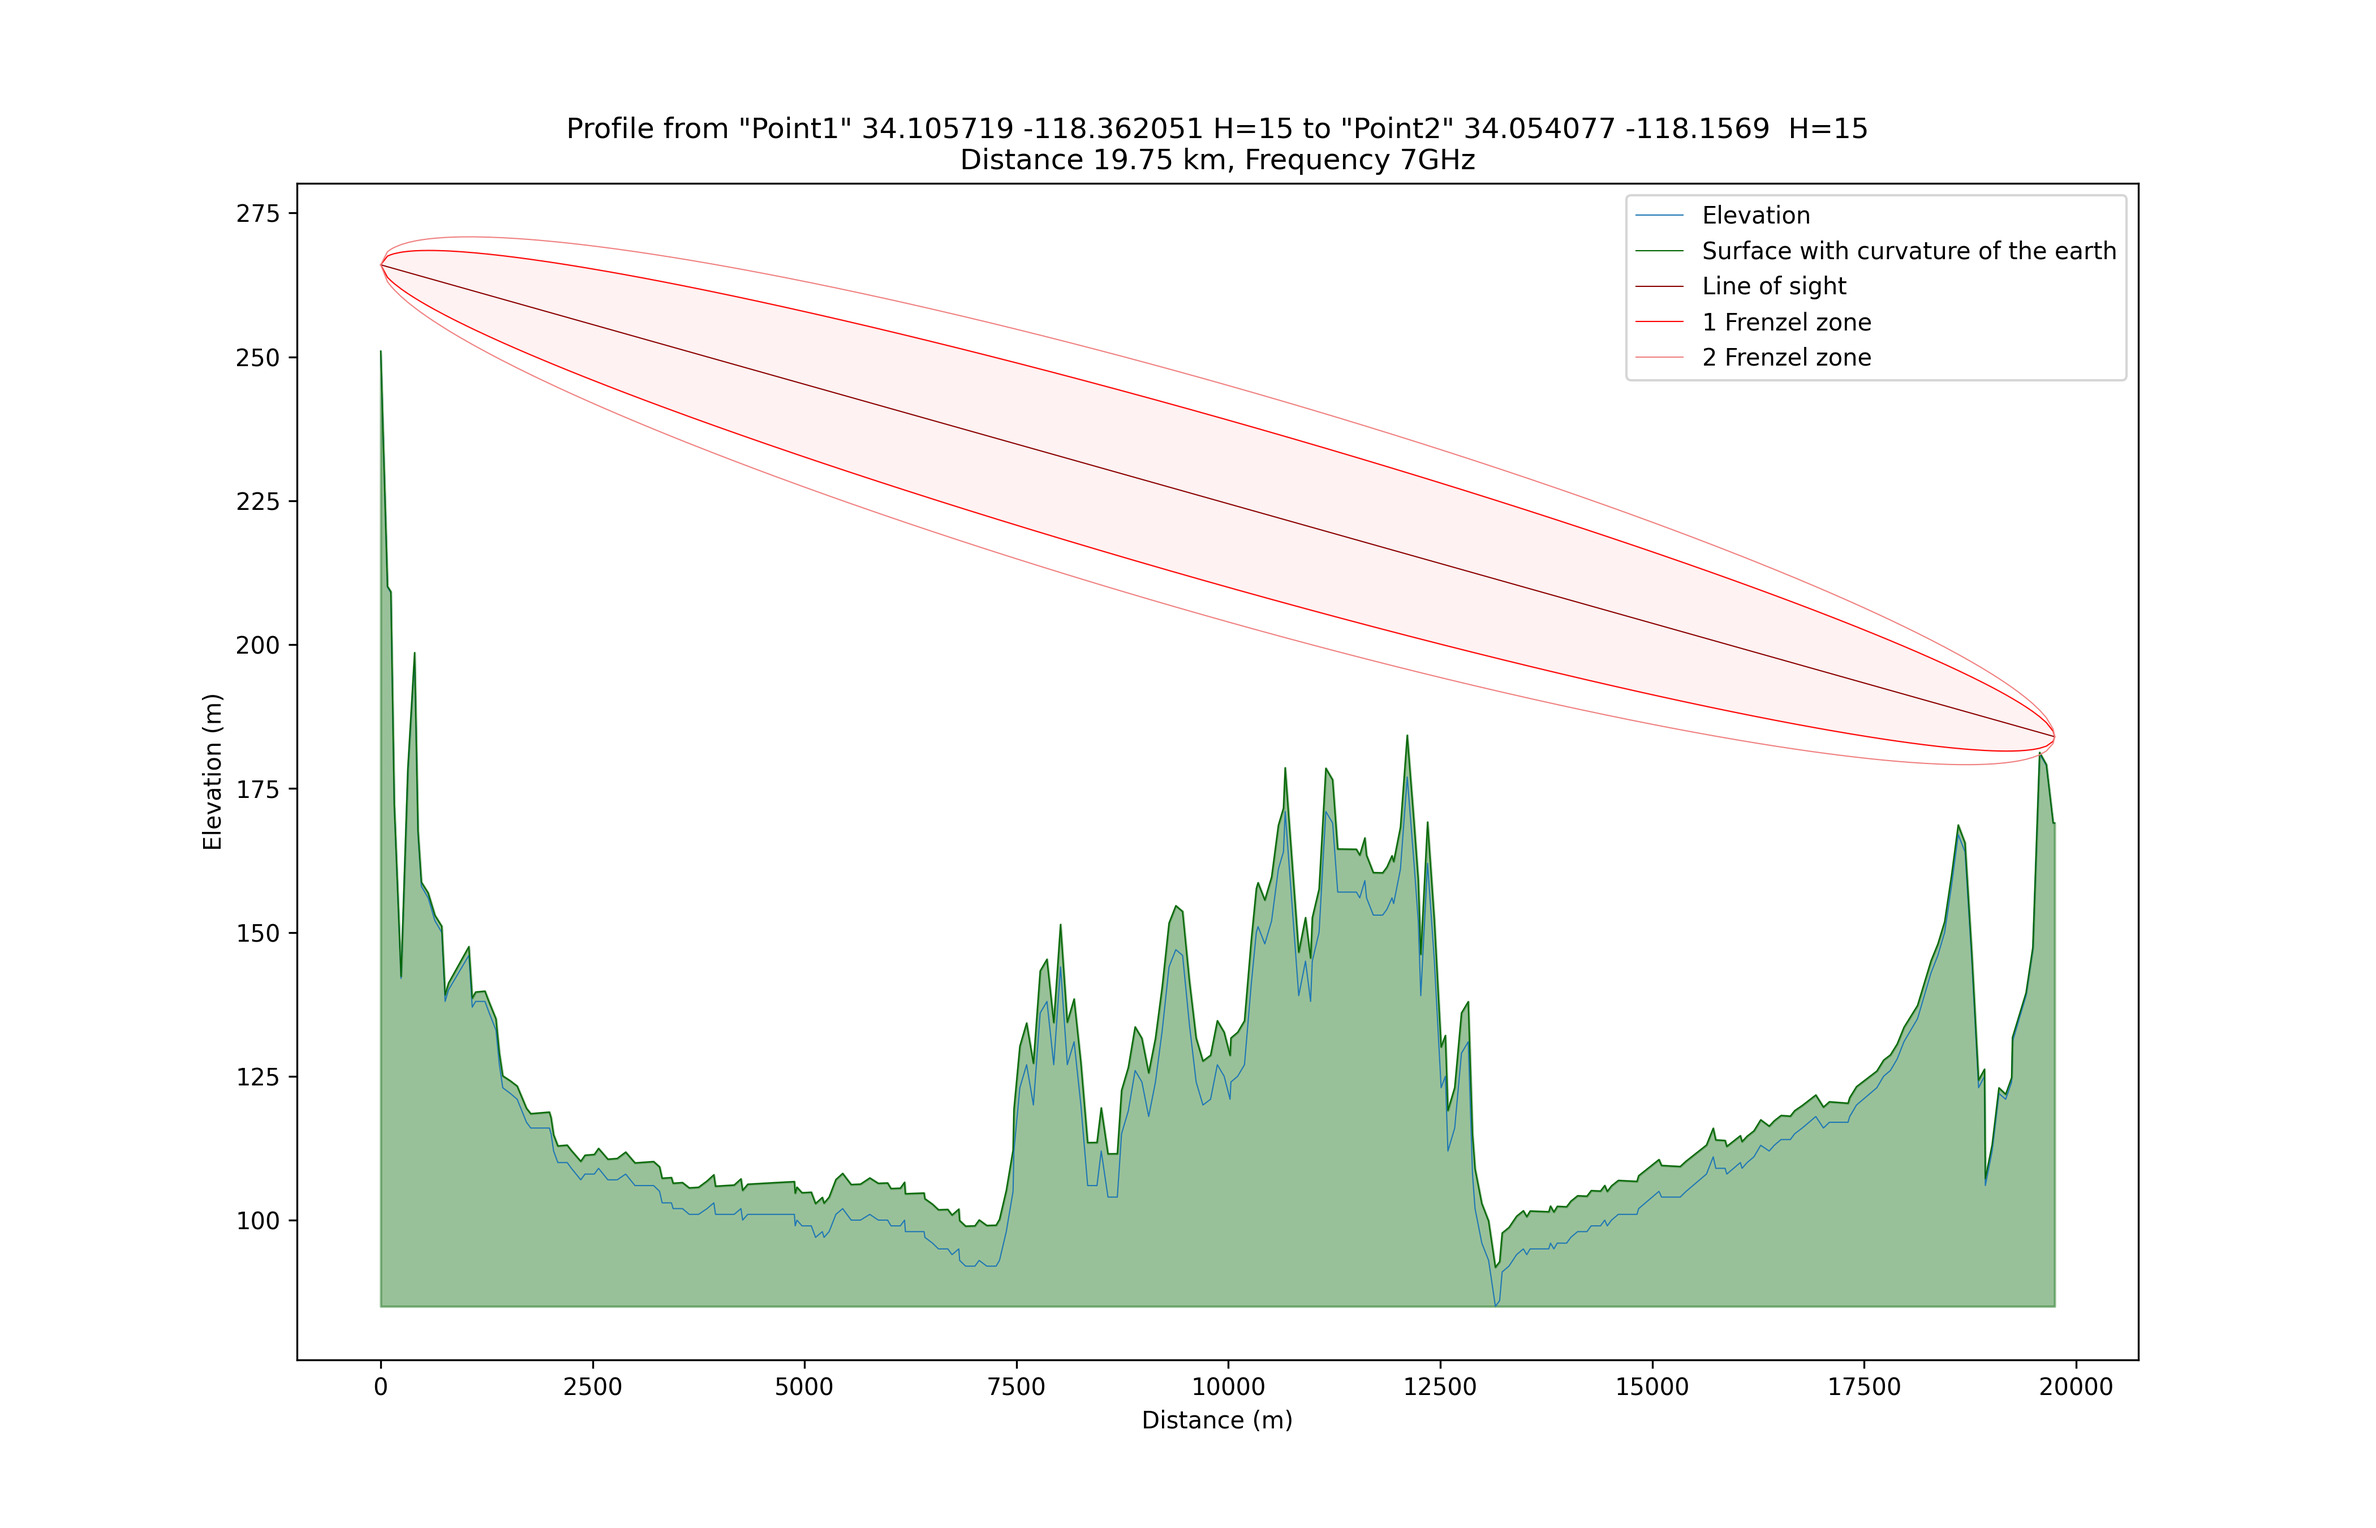
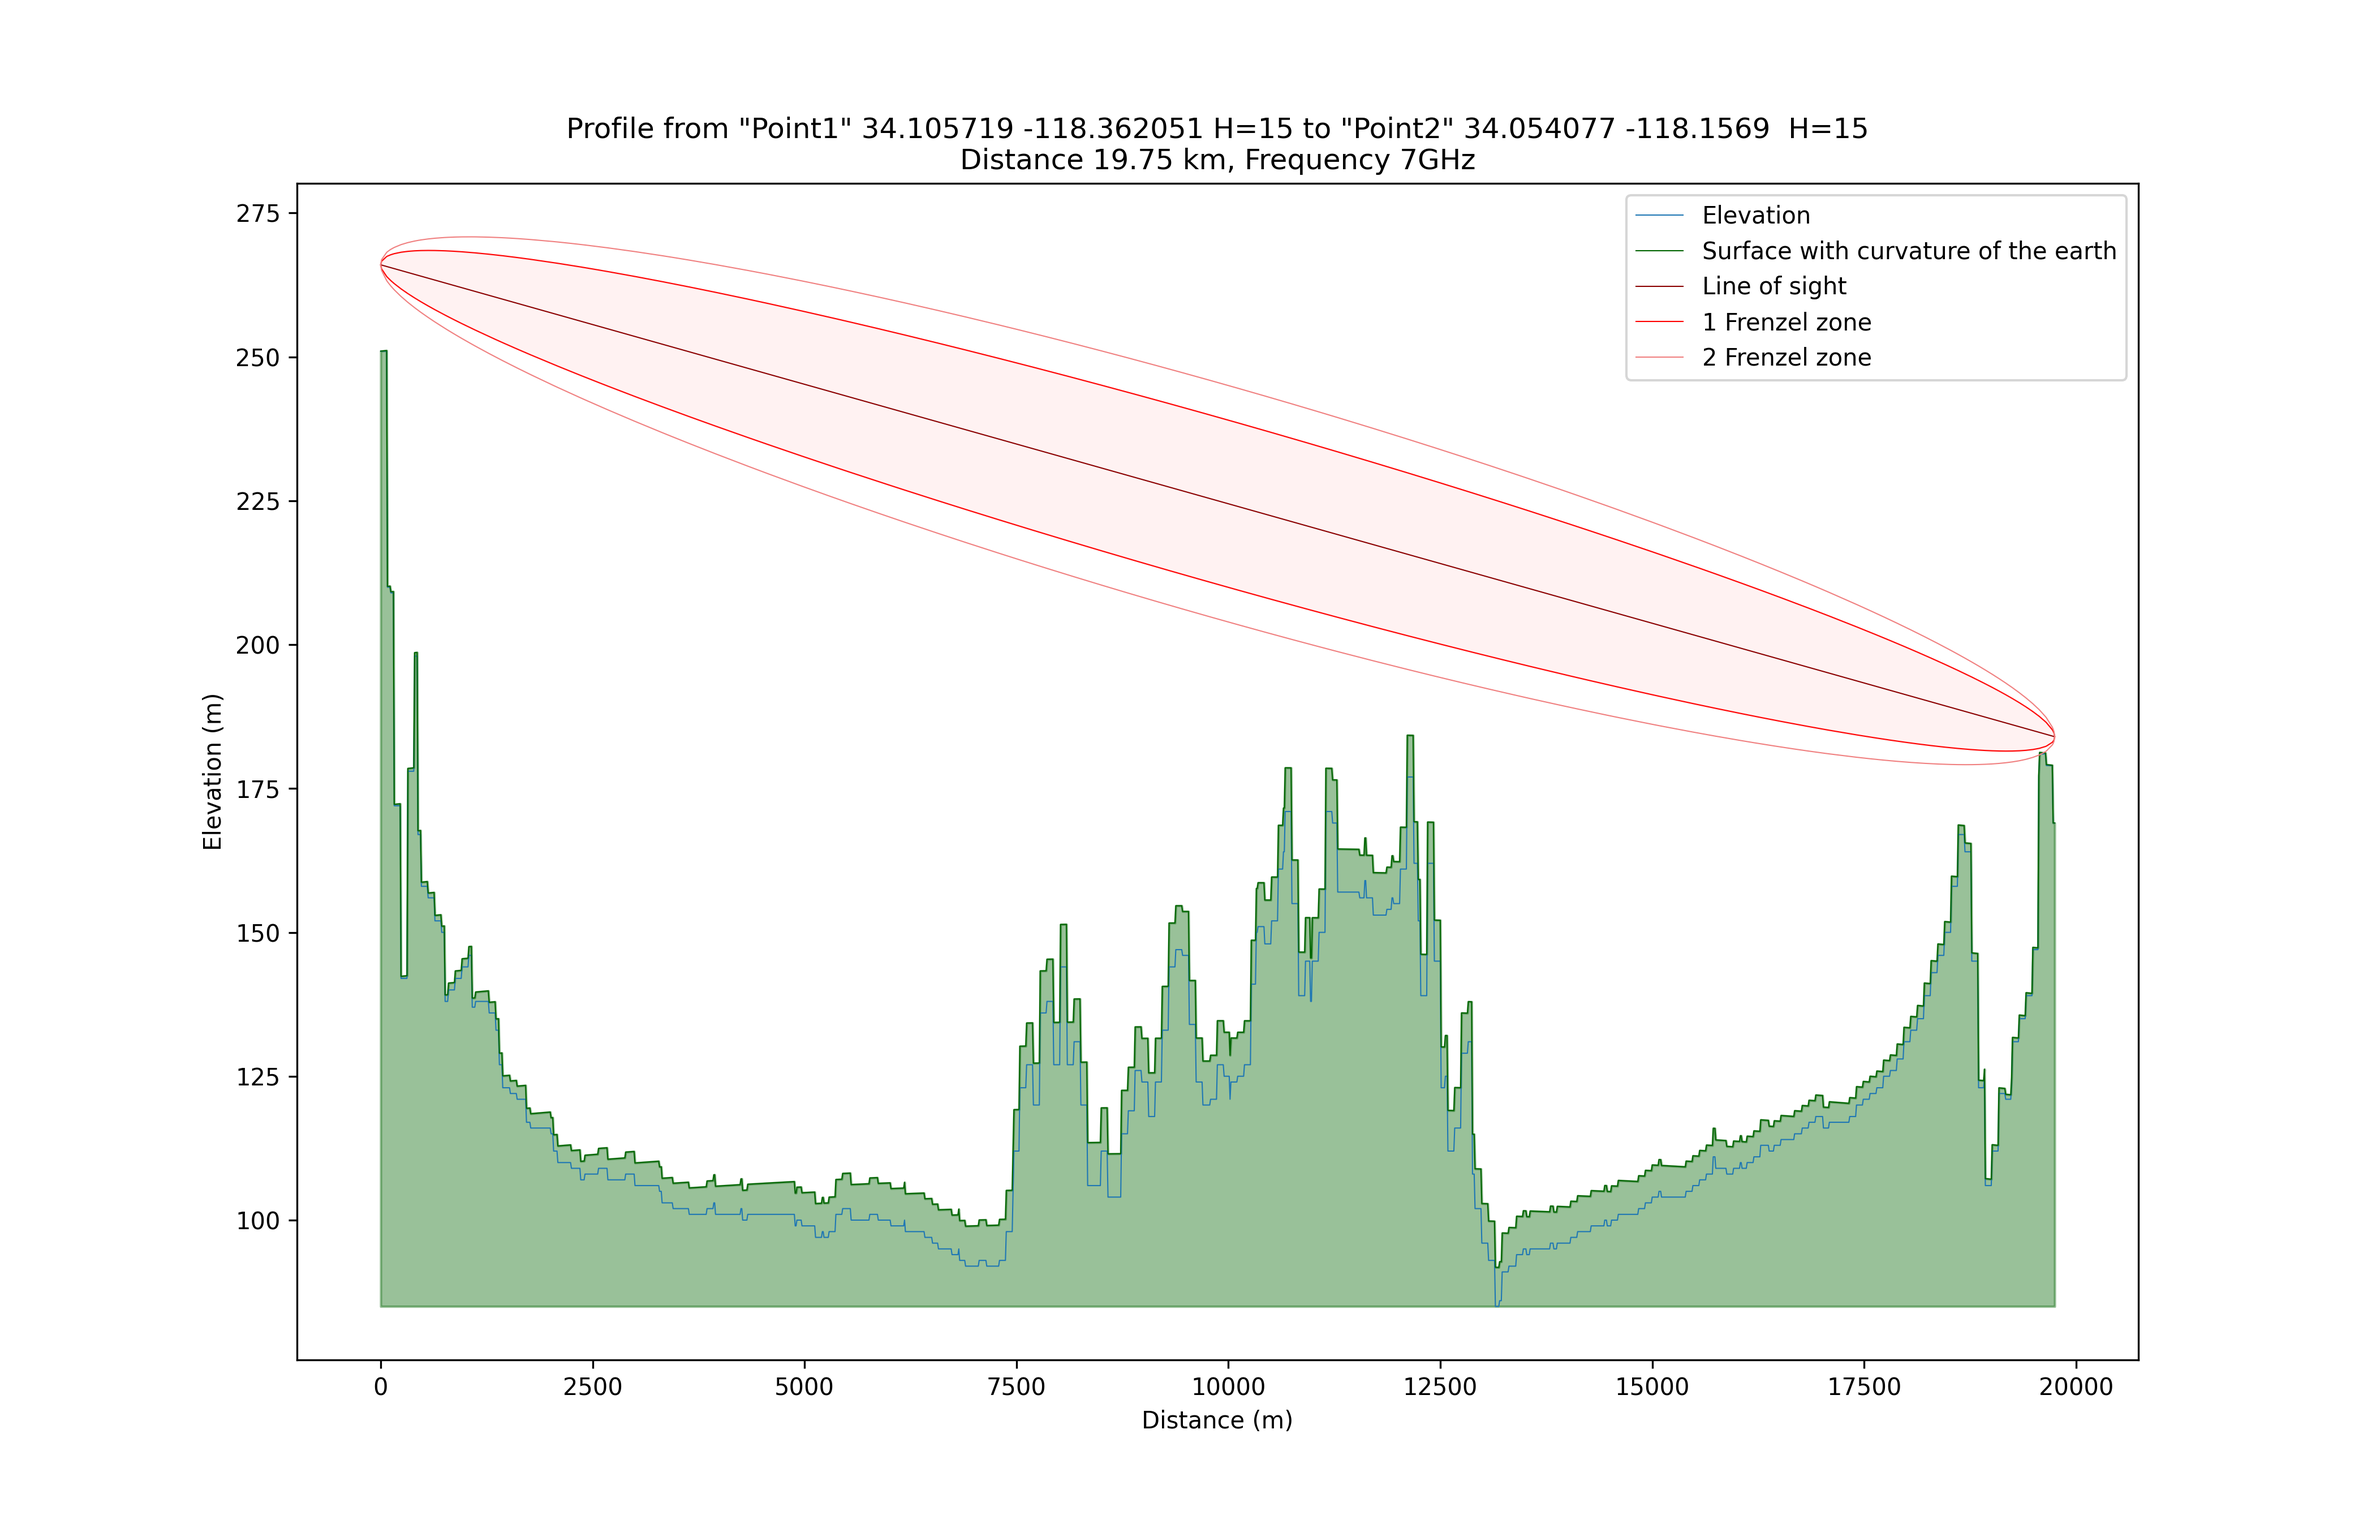
Fixed terrain construction algorithm (there was a sawtooth relief due to memory optimization)

diff --git a/tests/test_libRadioPath.py b/tests/test_libRadioPath.py
@@ -83,7 +83,7 @@ def test_radio_path_chart_data():
     p1 = GeoPoint(1.594748, 31.158804, name='Point1')
     p2 = GeoPoint(1.595744, 31.160749, name='Point2')
     radiopath1 = RadioPath(startpoint=p1, startheight=40, stoppoint=p2, stopheight=40, frequency=13)
-    # print(radiopath1.get_chart_data())
+
     assert radiopath1.get_chart_data() == {
         'distance': [0, 10, 90, 100, 160, 170, 200, 210, 240, 243.5269906724964],
         'relief': [660, 660, 660, 690, 690, 641, 641, 677, 677, 677],
